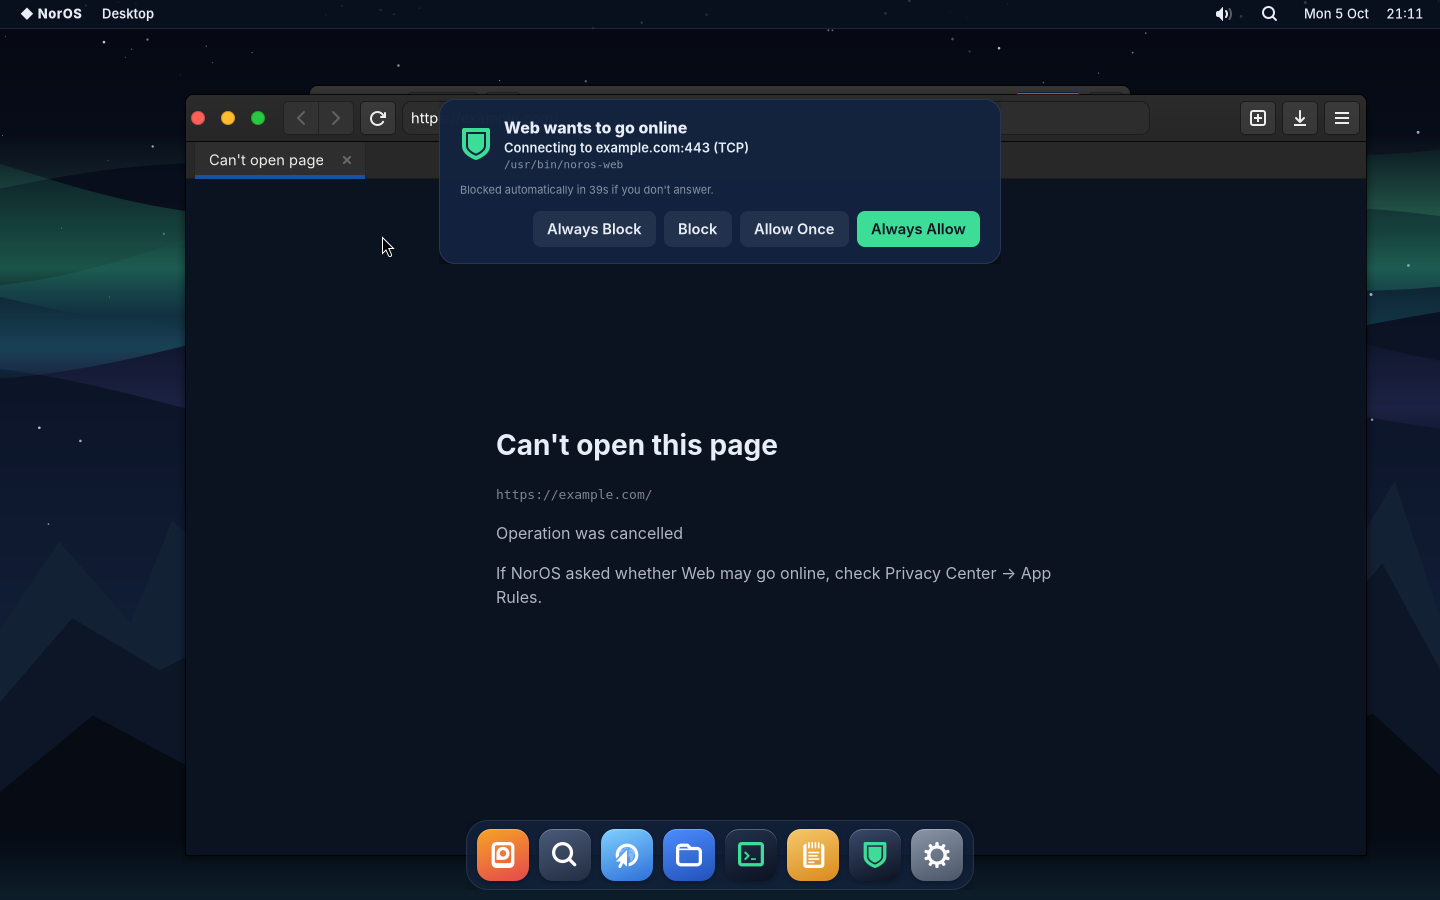
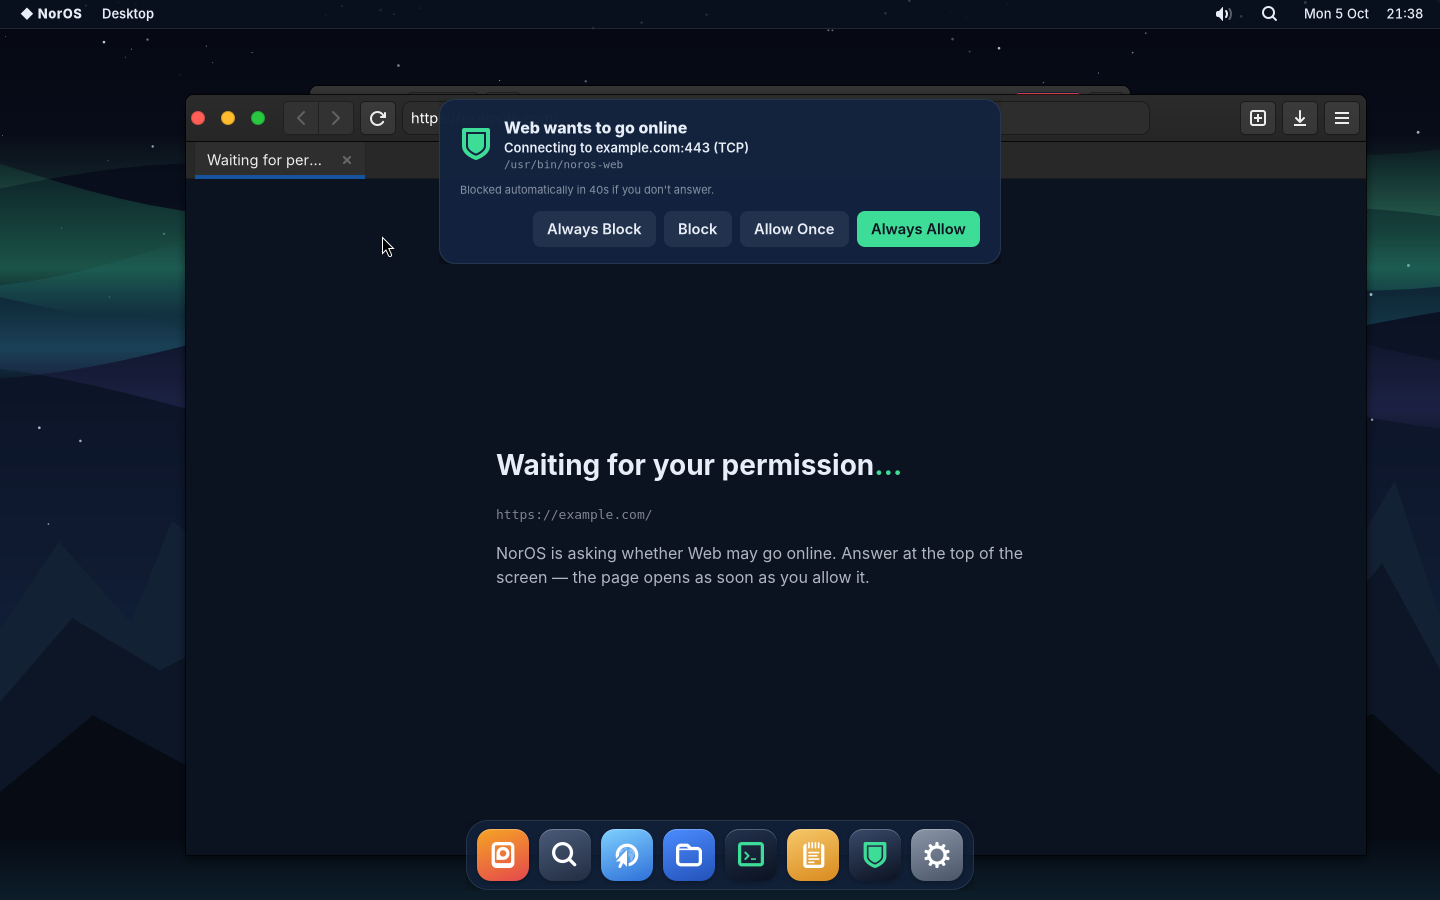
Boot test opens a download link through Web

Changed region(s): [[0.3438, 0.4667, 0.7188, 0.6844], [0.125, 0.1556, 0.2188, 0.1867], [0.4062, 0.1867, 0.4375, 0.2178]]

diff --git a/ci/qmp_test.py b/ci/qmp_test.py
@@ -299,12 +299,11 @@ def phase_live(qmp, a, settle):
     qmp.click(918, 229)  # "Always Allow"
     time.sleep(settle * 3)  # the page should now open by itself
     qmp.screenshot(f"{a.out}/14-web-page.png")
-    qmp.click(775, 118)  # the address bar
-    time.sleep(1)
-    qmp.keys("ctrl", "a")
-    time.sleep(1)
-    qmp.type("https://httpbin.org/bytes/4096\n")
-    time.sleep(settle * 3)
+    # Open a download link the way other apps do: hand the address to Web.
+    qmp.keys("meta_l", "ret")
+    time.sleep(settle)
+    qmp.type("noros-web https://httpbin.org/bytes/4096\n")
+    time.sleep(settle * 4)
     qmp.screenshot(f"{a.out}/15-web-download.png")
     return 0
 
